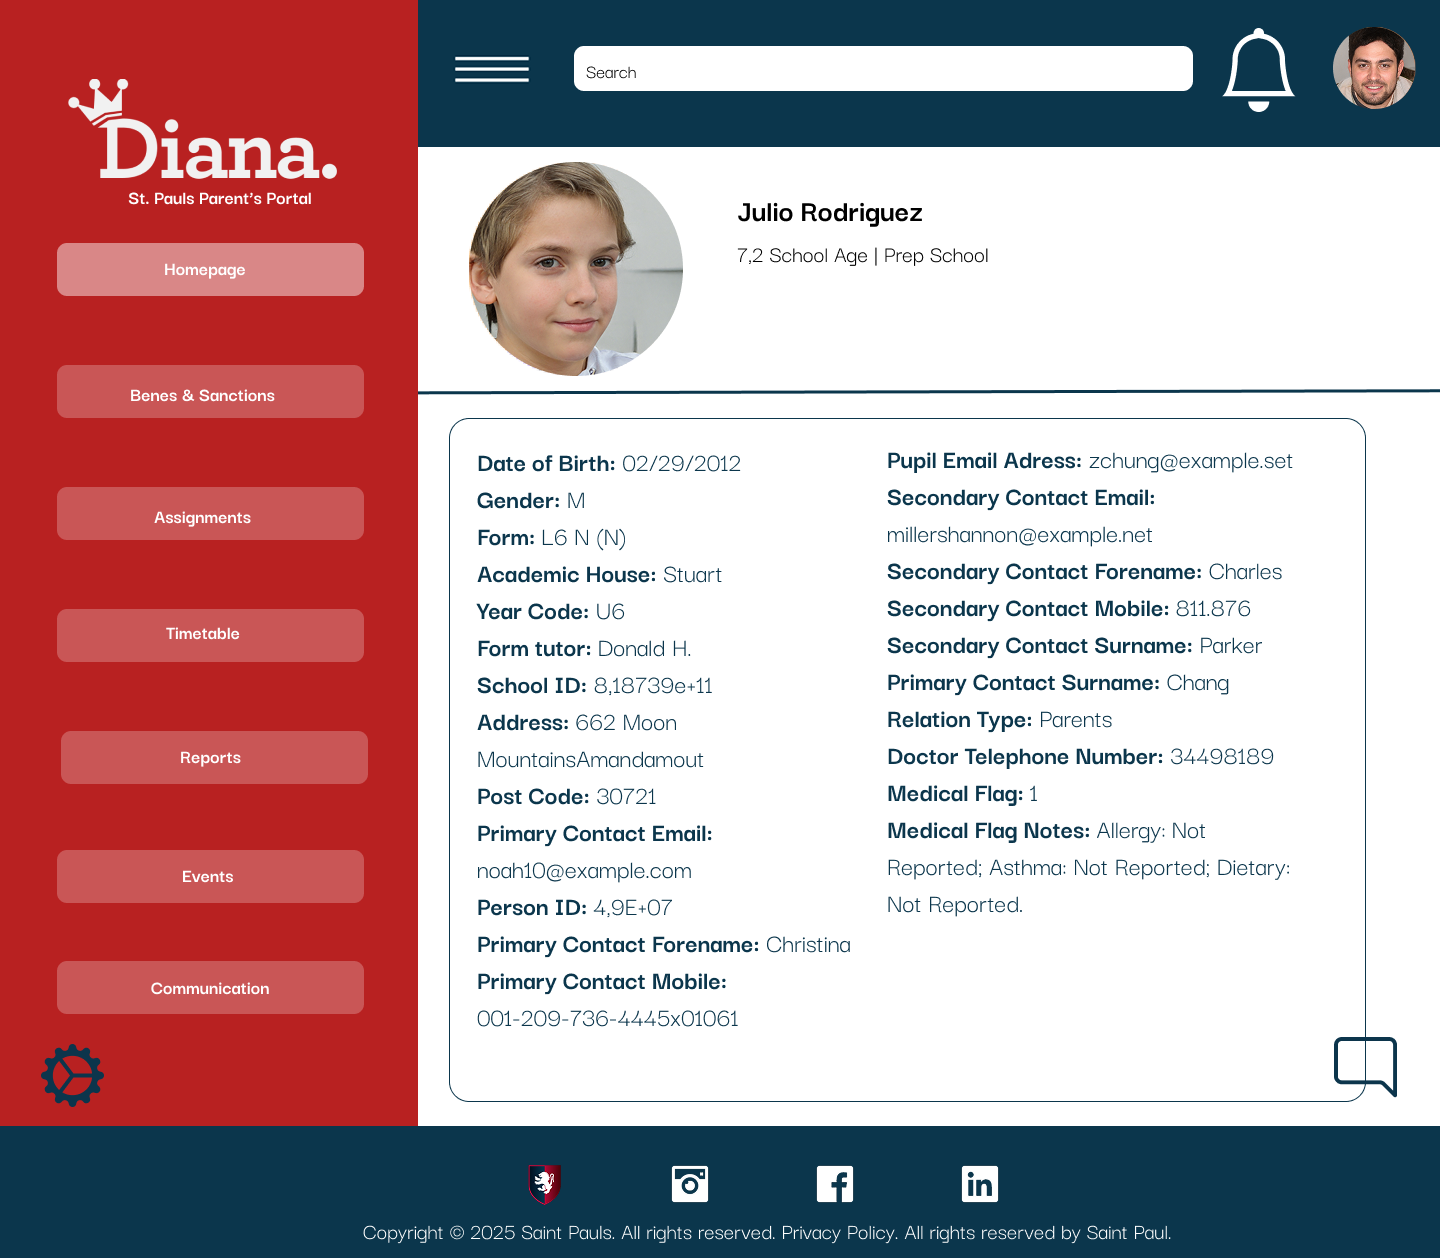
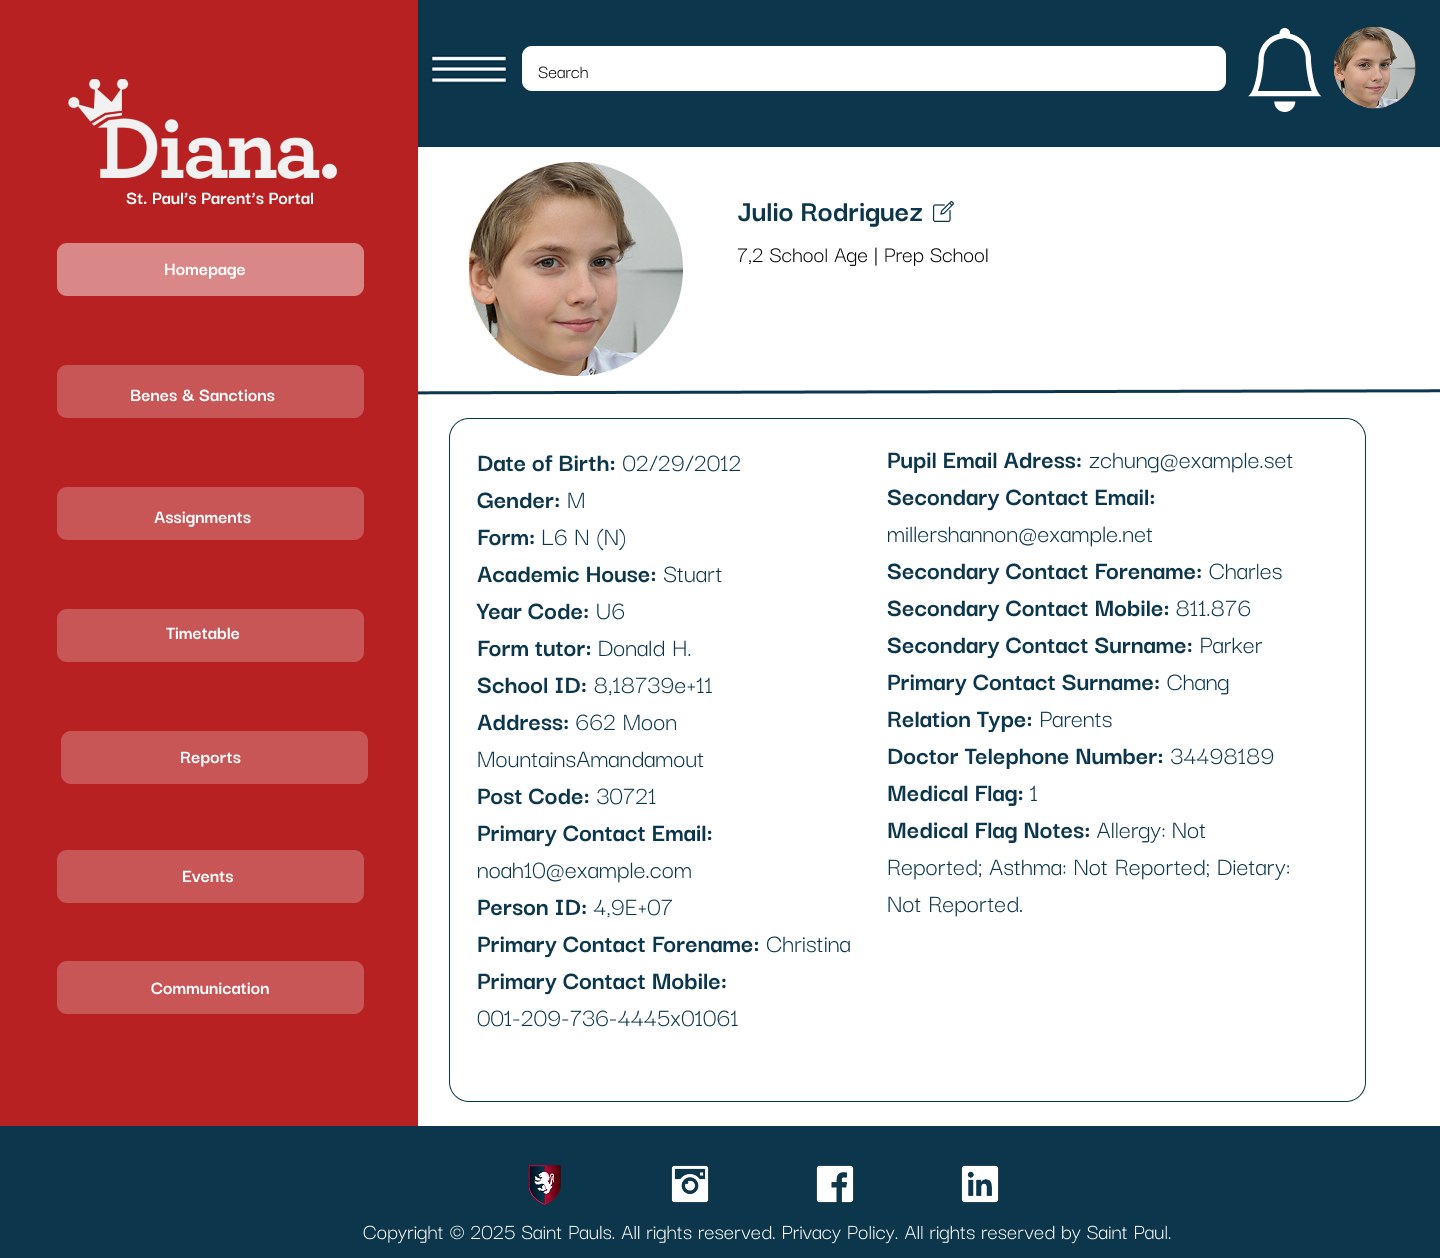
DOCS: re-do high fidelity prototype section

diff --git a/documents/wad.md b/documents/wad.md
@@ -808,17 +808,125 @@ The guide uses two main font families: Darker Grotesque for interface texts and 
 
 ## 3.4 High-fidelity prototype (sprint 3)
 
-A high-fidelity prototype is a detailed representation of a product that closely resembles the final design in both appearance and functionality. It includes realistic visuals, accurate layout and typography.
+&nbsp;&nbsp;&nbsp;&nbsp;A high-fidelity prototype is a detailed representation of a product that closely resembles the final design in both appearance and functionality. It includes realistic visuals, accurate layout and typography, serving as a near-final representation of the user interface before development implementation.
 
-**Login and about page**
+&nbsp;&nbsp;&nbsp;&nbsp;High-fidelity prototypes are essential in the design process as they bridge the gap between conceptual wireframes and the final product. Unlike low-fidelity prototypes that focus on structure and basic functionality, high-fidelity prototypes incorporate detailed visual elements including:
+
+- **Visual Design Elements**: Real color schemes, actual typography, authentic imagery, and precise spacing that reflect the final product's aesthetic
+- **Interactive Components**: Functional buttons, form fields, navigation elements, and micro-interactions that simulate the actual user experience
+- **Content Strategy**: Realistic content including actual text, images, and data representations rather than placeholder elements
+- **Responsive Design**: Layouts that demonstrate how the interface adapts across different screen sizes and devices
+
+### 3.4.1 Prototyping Methodology
+
+&nbsp;&nbsp;&nbsp;&nbsp;Our high-fidelity prototype development followed a systematic approach based on design thinking principles and user-centered design methodologies. The process involved:
+
+**1. Design System Integration**: All prototype screens were built using our established style guide (Section 3.3), ensuring consistency in colors (#B82121, #0C354C, #F1F1F1), typography (Darker Grotesque and Archer font families), and iconography throughout the interface.
+
+**2. User Journey Mapping**: Each prototype screen was designed to support specific user stories and acceptance criteria defined in Section 2.3, creating a seamless flow that addresses real user needs and business objectives.
+
+**3. Visual Validation**: The prototype underwent multiple iterations with stakeholders to validate visual hierarchy, information architecture, and overall user experience before finalizing the designs (sprint reviews).
+
+**4. Accessibility Considerations**: Color contrast ratios, font sizes, and interactive element spacing were designed to meet standards, ensuring the platform is accessible to users with diverse abilities.
+
+### 3.4.2 Key Interface Screens
+
+&nbsp;&nbsp;&nbsp;&nbsp;The following screens represent the core functionality of the Diana parent portal system, each designed to address specific user needs identified during the research phase:
+
+
+<br>
+
+<div align="center">
+  
+  <sub>Figure - Login and About Page </sub>
+  <br>
+  <br>
 <img src="../assets/wad/Login and About (1).png">
+  <br>
+  <br>
 
-**Homepage/profile**
+  <sup>Source: authors (2025)</sup>
+  
+</div>
+
+<br>
+
+<br>
+
+<div align="center">
+  
+  <sub>Figure - Student Selection </sub>
+  <br>
+  <br>
+<img src="../assets/wad/Student Selection.png">
+  <br>
+  <br>
+
+  <sup>Source: authors (2025)</sup>
+  
+</div>
+
+<br>
+
+&nbsp;&nbsp;&nbsp;&nbsp;The login interface serves as the primary entry point to the system, featuring a clean, professional design that reflects St. Paul's School's brand identity. The layout prioritizes security and ease of access, with clear call-to-action buttons for authentication, password recovery, and institutional information access. The design incorporates the school's color palette and maintains visual consistency with the overall platform aesthetic.
+
+<br>
+
+<div align="center">
+  
+  <sub>Figure - Homepage/Profile Management </sub>
+  <br>
+  <br>
 <img src="../assets/wad/Group 14.png">
+  <br>
+  <br>
 
-**Benes and sanctions**
+  <sup>Source: authors (2025)</sup>
+  
+</div>
+
+<br>
+
+
+&nbsp;&nbsp;&nbsp;&nbsp;The homepage serves as the central dashboard where parents can access all platform features and manage their profile information. The interface features a card-based layout that provides quick access to key functionalities including academic reports, upcoming events, and contact management. The design emphasizes information hierarchy through strategic use of whitespace, typography scaling, and color-coded sections.
+
+<br>
+
+<div align="center">
+  
+  <sub>Figure - Reports </sub>
+  <br>
+  <br>
+<img src="../assets/wad/Reports-prototype.png">
+  <br>
+  <br>
+
+  <sup>Source: authors (2025)</sup>
+  
+</div>
+
+<br>
+
+<br>
+
+<div align="center">
+  
+  <sub>Figure - Behavioral Tracking - Benes and Sanctions </sub>
+  <br>
+  <br>
 <img src="../assets/wad/Benes & Sanctions.png">
+  <br>
+  <br>
 
+  <sup>Source: authors (2025)</sup>
+  
+</div>
+
+<br>
+
+&nbsp;&nbsp;&nbsp;&nbsp;This specialized interface allows parents to monitor their child's behavioral progress through St. Paul's unique merit and sanction system. The design incorporates data visualization elements including charts and progress indicators that make behavioral trends easily interpretable. The interface balances the need for detailed information with emotional sensitivity, using neutral colors and supportive messaging.
+
+<a href="https://www.figma.com/design/Qrb4vjSeXfNiWN9iirHvdN/Diana-Wireframes-and-Prototypes?node-id=0-1&t=3Uex8mdeUkJstifO-1">Click here </a> to access the complete Figma file (with all the platform's pages) and <a href="https://www.figma.com/proto/Qrb4vjSeXfNiWN9iirHvdN/Diana-Wireframes-and-Prototypes?node-id=350-3&t=3Uex8mdeUkJstifO-0&scaling=contain&content-scaling=fixed&page-id=0%3A1">here</a> to check the clickable prototype.
 
 
 ## 3.5. Database modelling (sprints 2 e 4)
